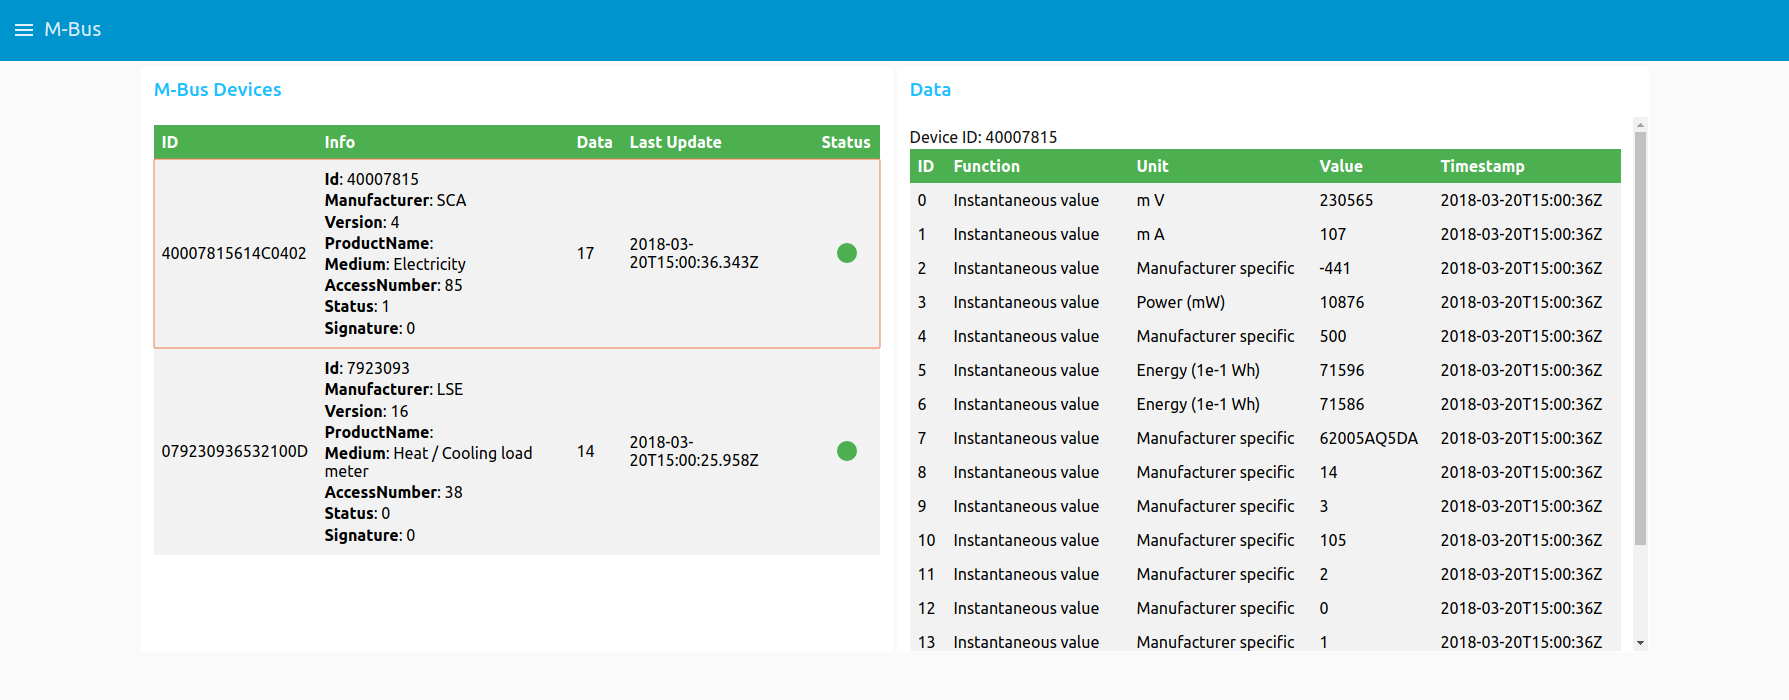
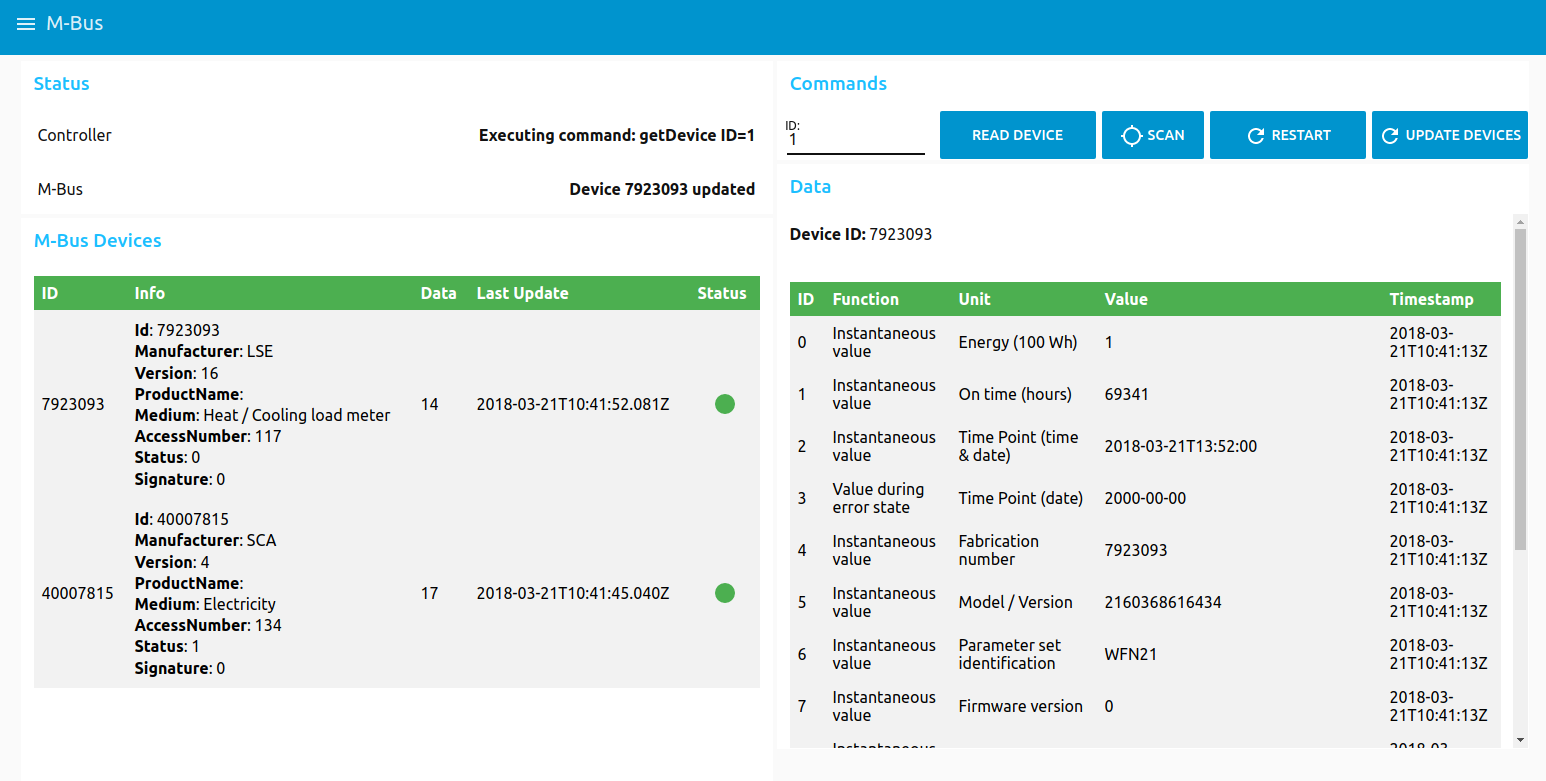
Updated readme and flow. Ready for release 0.5.0

diff --git a/README.md b/README.md
@@ -13,8 +13,6 @@
 
 Node-Red node that uses [node-mbus](https://github.com/Apollon77/node-mbus) to communicate with mbus devices via serial or TCP connections.
 
-#### \*\*THIS PACKAGE IS STILL UNDER DEVELOPMENT\*\*
-
 # Install
 
 Run the following command in the root directory of your Node-RED install
@@ -173,8 +171,12 @@ Click on a m-bus device row and his data will be displayed in the Data table. De
 ### Flow data
 
 ```json
-[{"id":"91f58b94.449f68","type":"tab","label":"M-Bus","disabled":false,"info":""},{"id":"dd877b81.954e48","type":"mbus-out","z":"91f58b94.449f68","name":"","client":"ae5a755.a1da088","x":385,"y":163,"wires":[["3baf7067.f14cb"]]},{"id":"3baf7067.f14cb","type":"debug","z":"91f58b94.449f68","name":"","active":true,"tosidebar":true,"console":false,"tostatus":false,"complete":"false","x":677,"y":163,"wires":[]},{"id":"c052251a.5894f8","type":"mbus-controller","z":"91f58b94.449f68","name":"","client":"ae5a755.a1da088","x":423,"y":253,"wires":[["b83f6e57.3e9b3","4628e1e6.86c15"]]},{"id":"6783da7a.66a964","type":"inject","z":"91f58b94.449f68","name":"scan","topic":"scan","payload":"","payloadType":"str","repeat":"","crontab":"","once":false,"onceDelay":0.1,"x":136,"y":206,"wires":[["c052251a.5894f8"]]},{"id":"b83f6e57.3e9b3","type":"debug","z":"91f58b94.449f68","name":"","active":true,"tosidebar":true,"console":false,"tostatus":false,"complete":"false","x":694,"y":254,"wires":[]},{"id":"36145d27.8fa442","type":"inject","z":"91f58b94.449f68","name":"Read ID 1","topic":"getDevice","payload":"{\"address\": 1}","payloadType":"json","repeat":"","crontab":"","once":false,"onceDelay":0.1,"x":145,"y":252,"wires":[["c052251a.5894f8"]]},{"id":"161119a5.ed03b6","type":"inject","z":"91f58b94.449f68","name":"Get Devices","topic":"getDevices","payload":"","payloadType":"str","repeat":"60","crontab":"","once":true,"onceDelay":0.1,"x":164,"y":295,"wires":[["c052251a.5894f8"]]},{"id":"4628e1e6.86c15","type":"ui_template","z":"91f58b94.449f68","group":"33ef59b3.4b5596","name":"mbus-table","order":0,"width":"14","height":"10","format":"<table>\n  <tr>\n    <th>ID</th>\n    <th>Info</th>\n    <th>Data</th>\n    <th>Last Update</th>\n    <th>Status</th>\n  </tr>\n  <tr style=\"cursor:pointer;\" ng-click=\"showData(device)\" ng-repeat=\"(ID, device) in devices\">\n    <td>{{ ID }}</td>\n    <td ng-bind-html=\"getInfo(device)\"></td>\n    <td>{{ device.DataRecord.length }}</td>\n    <td>{{ device.lastUpdate }}</td>\n    <td><div class=\"online\" ng-style=\"{background: isOnline(ID) ? '#4CAF50' : '#f44336'}\"></div></td>\n  </tr>\n</table>\n\n<style>\ntable {\n    border-collapse: collapse;\n    width: 100%;\n}\n\nth, td{\n    text-align: left;\n    padding: 8px;\n    background-color: #f2f2f2;\n    color: black;\n}\n\nth {\n    background-color: #4CAF50;\n    color: white;\n}\n\n.online {\n\tbackground:#ff3333;\n\twidth:20px;\n\theight:20px;\n\tmargin:0 auto;\n\t-webkit-border-radius:50%;\n\t-moz-border-radius:50%;\n\tborder-radius:50%;\n}\n</style>\n\n<script>\n\n\n(function(scope) {\n    \n    scope.send({topic: 'getDevices'});\n    scope.devices = [];\n    scope.errors = [];\n    \n    scope.isOnline = function(ID){\n        return !(scope.errors[ID] === true);\n    }\n    \n    scope.showData = function(device){\n        scope.send({topic: 'deviceData', payload: device});\n    }\n    \n    scope.getInfo = function(device){\n        var text = '';\n        var info = device.SlaveInformation;\n        \n        for(key in info){\n            text += `<p><b>${key}</b>: ${info[key]}</p>`;\n        }\n        \n        return text;\n    }\n\n    scope.$watch('msg', function(data) {\n        if(data && data.topic){\n            switch(data.topic){\n                case \"getDevices\":\n                    if(data.payload && data.payload.devices)\n                        scope.devices = data.payload.devices;\n                        \n                    if(data.payload && data.payload.errors)\n                        scope.errors = data.payload.errors;\n                        \n                break;\n            }\n        }\n    });\n    \n})(scope);\n\n</script>\n","storeOutMessages":false,"fwdInMessages":false,"templateScope":"local","x":752,"y":324,"wires":[["daf4f19d.2953f"]]},{"id":"1bbe4b3c.e76775","type":"inject","z":"91f58b94.449f68","name":"restart","topic":"restart","payload":"","payloadType":"num","repeat":"","crontab":"","once":false,"onceDelay":0.1,"x":133,"y":338,"wires":[["c052251a.5894f8"]]},{"id":"daf4f19d.2953f","type":"ui_template","z":"91f58b94.449f68","group":"f84bb8e1.c42128","name":"data-table","order":0,"width":"14","height":"10","format":"<p>Device ID: {{ID}} </p>\n\n<table>\n  <tr>\n    <th>ID</th>\n    <th>Function</th>\n    <th>Unit</th>\n    <th>Value</th>\n    <th>Timestamp</th>\n  </tr>\n  <tr ng-repeat=\"(key, data) in deviceData\">\n    <td>{{ data.id }}</td>\n    <td>{{ data.Function }}</td>\n    <td>{{ data.Unit }}</td>\n    <td>{{ data.Value }}</td>\n    <td>{{ data.Timestamp }}</td>\n  </tr>\n</table>\n\n<style>\ntable {\n    border-collapse: collapse;\n    width: 100%;\n}\n\nth, td{\n    text-align: left;\n    padding: 8px;\n    background-color: #f2f2f2;\n    color: black;\n}\n\nth {\n    background-color: #4CAF50;\n    color: white;\n}\n\n.online {\n\tbackground:#ff3333;\n\twidth:20px;\n\theight:20px;\n\tmargin:0 auto;\n\t-webkit-border-radius:50%;\n\t-moz-border-radius:50%;\n\tborder-radius:50%;\n}\n</style>\n\n<script>\n\n\n(function(scope) {\n    \n    scope.deviceData = [];\n    scope.ID = '';\n\n    scope.$watch('msg', function(data) {\n        if(data && data.topic){\n            switch(data.topic){\n                case \"deviceData\":\n                    if(data.payload){\n                        scope.deviceData = data.payload.DataRecord;\n                        scope.ID = data.payload.SlaveInformation.Id;\n                    }\n                break;\n            }\n        }\n    });\n    \n})(scope);\n\n</script>\n","storeOutMessages":false,"fwdInMessages":false,"templateScope":"local","x":981,"y":324,"wires":[[]]},{"id":"54eb2609.265918","type":"inject","z":"91f58b94.449f68","name":"Read ID 2","topic":"getDevice","payload":"{\"address\": 2}","payloadType":"json","repeat":"","crontab":"","once":false,"onceDelay":0.1,"x":134,"y":400,"wires":[["c052251a.5894f8"]]},{"id":"ae5a755.a1da088","type":"mbus-client","z":"","name":"test","clienttype":"serial","tcpHost":"127.0.0.1","tcpPort":"500","serialPort":"/dev/ttyUSB0","serialBaudrate":"2400","reconnectTimeout":"5000","storeDevices":true,"disableLogs":false},{"id":"33ef59b3.4b5596","type":"ui_group","z":"","name":"M-Bus Devices","tab":"1e8e0541.4fc61b","order":4,"disp":true,"width":"14","collapse":false},{"id":"f84bb8e1.c42128","type":"ui_group","z":"","name":"Data","tab":"1e8e0541.4fc61b","disp":true,"width":"14","collapse":false},{"id":"1e8e0541.4fc61b","type":"ui_tab","z":"","name":"M-Bus","icon":"plug","order":1}]
+[{"id":"91f58b94.449f68","type":"tab","label":"M-Bus","disabled":false,"info":""},{"id":"dd877b81.954e48","type":"mbus-out","z":"91f58b94.449f68","name":"","client":"ae5a755.a1da088","x":386,"y":242,"wires":[["3baf7067.f14cb"]]},{"id":"3baf7067.f14cb","type":"debug","z":"91f58b94.449f68","name":"","active":true,"tosidebar":true,"console":false,"tostatus":false,"complete":"false","x":678,"y":242,"wires":[]},{"id":"c052251a.5894f8","type":"mbus-controller","z":"91f58b94.449f68","name":"","client":"ae5a755.a1da088","x":426,"y":303,"wires":[["b83f6e57.3e9b3","4628e1e6.86c15"]]},{"id":"6783da7a.66a964","type":"inject","z":"91f58b94.449f68","name":"scan","topic":"scan","payload":"","payloadType":"str","repeat":"","crontab":"","once":false,"onceDelay":0.1,"x":122,"y":72,"wires":[["c052251a.5894f8"]]},{"id":"b83f6e57.3e9b3","type":"debug","z":"91f58b94.449f68","name":"","active":true,"tosidebar":true,"console":false,"tostatus":false,"complete":"false","x":621,"y":349,"wires":[]},{"id":"36145d27.8fa442","type":"inject","z":"91f58b94.449f68","name":"Read ID 1","topic":"getDevice","payload":"{\"address\": 1}","payloadType":"json","repeat":"","crontab":"","once":false,"onceDelay":0.1,"x":129,"y":146,"wires":[["c052251a.5894f8"]]},{"id":"161119a5.ed03b6","type":"inject","z":"91f58b94.449f68","name":"Get Devices","topic":"getDevices","payload":"","payloadType":"str","repeat":"10","crontab":"","once":true,"onceDelay":0.1,"x":145,"y":220,"wires":[["c052251a.5894f8"]]},{"id":"4628e1e6.86c15","type":"ui_template","z":"91f58b94.449f68","group":"33ef59b3.4b5596","name":"mbus-table","order":0,"width":"14","height":"10","format":"<table>\n  <tr>\n    <th>ID</th>\n    <th>Info</th>\n    <th>Data</th>\n    <th>Last Update</th>\n    <th>Status</th>\n  </tr>\n  <tr style=\"cursor:pointer;\" ng-click=\"showData(device)\" ng-repeat=\"(ID, device) in devices\">\n    <td>{{ ID }}</td>\n    <td ng-bind-html=\"getInfo(device)\"></td>\n    <td>{{ device.DataRecord.length }}</td>\n    <td>{{ device.lastUpdate }}</td>\n    <td><div class=\"online\" ng-style=\"{background: isOnline(ID) ? '#4CAF50' : '#f44336'}\"></div></td>\n  </tr>\n</table>\n\n<style>\ntable {\n    border-collapse: collapse;\n    width: 100%;\n}\n\nth, td{\n    text-align: left;\n    padding: 8px;\n    background-color: #f2f2f2;\n    color: black;\n}\n\nth {\n    background-color: #4CAF50;\n    color: white;\n}\n\n.online {\n\tbackground:#ff3333;\n\twidth:20px;\n\theight:20px;\n\tmargin:0 auto;\n\t-webkit-border-radius:50%;\n\t-moz-border-radius:50%;\n\tborder-radius:50%;\n}\n</style>\n\n<script>\n\n\n(function(scope) {\n    \n    scope.send({topic: 'getDevices'});\n    scope.devices = [];\n    scope.errors = [];\n    \n    scope.isOnline = function(ID){\n        return !(scope.errors[ID] === true);\n    }\n    \n    scope.showData = function(device){\n        scope.send({topic: 'deviceData', payload: device});\n    }\n    \n    scope.getInfo = function(device){\n        var text = '';\n        var info = device.SlaveInformation;\n        \n        for(key in info){\n            text += `<p><b>${key}</b>: ${info[key]}</p>`;\n        }\n        \n        return text;\n    }\n\n    scope.$watch('msg', function(data) {\n        if(data && data.topic){\n            switch(data.topic){\n                case \"getDevices\":\n                    if(data.payload && data.payload.devices)\n                        scope.devices = data.payload.devices;\n                        \n                    if(data.payload && data.payload.errors)\n                        scope.errors = data.payload.errors;\n                        \n                break;\n            }\n        }\n    });\n    \n})(scope);\n\n</script>\n","storeOutMessages":false,"fwdInMessages":false,"templateScope":"local","x":623,"y":303,"wires":[["daf4f19d.2953f"]]},{"id":"1bbe4b3c.e76775","type":"inject","z":"91f58b94.449f68","name":"restart","topic":"restart","payload":"","payloadType":"num","repeat":"","crontab":"","once":false,"onceDelay":0.1,"x":119,"y":108,"wires":[["c052251a.5894f8"]]},{"id":"daf4f19d.2953f","type":"ui_template","z":"91f58b94.449f68","group":"f84bb8e1.c42128","name":"data-table","order":0,"width":"14","height":"10","format":"<p><b>Device ID:</b> {{ID}} </p>\n\n<br>\n<br>\n\n<table>\n  <tr>\n    <th>ID</th>\n    <th>Function</th>\n    <th>Unit</th>\n    <th>Value</th>\n    <th>Timestamp</th>\n  </tr>\n  <tr ng-repeat=\"(key, data) in deviceData\">\n    <td>{{ data.id }}</td>\n    <td>{{ data.Function }}</td>\n    <td>{{ data.Unit }}</td>\n    <td>{{ data.Value }}</td>\n    <td>{{ data.Timestamp }}</td>\n  </tr>\n</table>\n\n<style>\ntable {\n    border-collapse: collapse;\n    width: 100%;\n}\n\nth, td{\n    text-align: left;\n    padding: 8px;\n    background-color: #f2f2f2;\n    color: black;\n}\n\nth {\n    background-color: #4CAF50;\n    color: white;\n}\n\n.online {\n\tbackground:#ff3333;\n\twidth:20px;\n\theight:20px;\n\tmargin:0 auto;\n\t-webkit-border-radius:50%;\n\t-moz-border-radius:50%;\n\tborder-radius:50%;\n}\n</style>\n\n<script>\n\n\n(function(scope) {\n    \n    scope.deviceData = [];\n    scope.ID = '';\n\n    scope.$watch('msg', function(data) {\n        if(data && data.topic){\n            switch(data.topic){\n                case \"deviceData\":\n                    if(data.payload){\n                        scope.deviceData = data.payload.DataRecord;\n                        scope.ID = data.payload.SlaveInformation.Id;\n                    }\n                break;\n            }\n        }\n    });\n    \n})(scope);\n\n</script>\n","storeOutMessages":false,"fwdInMessages":false,"templateScope":"local","x":786,"y":303,"wires":[[]]},{"id":"54eb2609.265918","type":"inject","z":"91f58b94.449f68","name":"Read ID 2","topic":"getDevice","payload":"{\"address\": 2}","payloadType":"json","repeat":"","crontab":"","once":false,"onceDelay":0.1,"x":130,"y":184,"wires":[["c052251a.5894f8"]]},{"id":"9a73efcf.a7232","type":"ui_button","z":"91f58b94.449f68","name":"Scan","group":"c89330ce.f7db","order":3,"width":"2","height":"1","passthru":false,"label":"Scan","color":"","bgcolor":"","icon":"location_searching","payload":"","payloadType":"str","topic":"scan","x":91,"y":421,"wires":[["c052251a.5894f8"]]},{"id":"97ffd355.b9e33","type":"ui_button","z":"91f58b94.449f68","name":"Restart","group":"c89330ce.f7db","order":4,"width":"3","height":"1","passthru":false,"label":"Restart","color":"","bgcolor":"","icon":"refresh","payload":"","payloadType":"str","topic":"restart","x":101,"y":458,"wires":[["c052251a.5894f8"]]},{"id":"15e49644.8e13ba","type":"ui_button","z":"91f58b94.449f68","name":"GetDevices","group":"c89330ce.f7db","order":5,"width":"3","height":"1","passthru":false,"label":"Update Devices","color":"","bgcolor":"","icon":"refresh","payload":"","payloadType":"str","topic":"getDevices","x":109,"y":495,"wires":[["c052251a.5894f8"]]},{"id":"d022c2f6.908e5","type":"ui_button","z":"91f58b94.449f68","name":"readAddress","group":"c89330ce.f7db","order":2,"width":"3","height":"1","passthru":false,"label":"Read Device","color":"","bgcolor":"","icon":"","payload":"deviceID","payloadType":"flow","topic":"getDevice","x":112,"y":384,"wires":[["10d02659.573e3a"]]},{"id":"c4931876.835258","type":"ui_text_input","z":"91f58b94.449f68","name":"Device_ID","label":"ID: ","group":"c89330ce.f7db","order":1,"width":"3","height":"1","passthru":true,"mode":"text","delay":300,"topic":"","x":112,"y":346,"wires":[["548897df.015fb8"]]},{"id":"548897df.015fb8","type":"function","z":"91f58b94.449f68","name":"storeID","func":"\nflow.set('deviceID', parseInt(msg.payload));\n\nreturn msg;","outputs":0,"noerr":0,"x":142,"y":265,"wires":[]},{"id":"10d02659.573e3a","type":"function","z":"91f58b94.449f68","name":"readAddr","func":"var addr = {address: msg.payload}\n\nmsg.payload = addr;\n\nreturn msg;","outputs":1,"noerr":0,"x":142,"y":304,"wires":[["c052251a.5894f8"]]},{"id":"ae06bcd6.ce3df","type":"status","z":"91f58b94.449f68","name":"controller_status","scope":["c052251a.5894f8"],"x":411,"y":97,"wires":[["1b23d795.c83a58"]]},{"id":"eb9c6a53.906ae8","type":"status","z":"91f58b94.449f68","name":"mbus_status","scope":["dd877b81.954e48"],"x":404,"y":142,"wires":[["ebc6bd18.72c2e"]]},{"id":"1b23d795.c83a58","type":"ui_text","z":"91f58b94.449f68","group":"b6df82c1.2728a","order":0,"width":0,"height":0,"name":"controller_status","label":"Controller","format":"{{msg.status.text}}","layout":"row-spread","x":623,"y":97,"wires":[]},{"id":"ebc6bd18.72c2e","type":"ui_text","z":"91f58b94.449f68","group":"b6df82c1.2728a","order":0,"width":0,"height":0,"name":"mbus_status","label":"M-Bus","format":"{{msg.status.text}}","layout":"row-spread","x":613,"y":142,"wires":[]},{"id":"ae5a755.a1da088","type":"mbus-client","z":"","name":"test","clienttype":"serial","tcpHost":"127.0.0.1","tcpPort":"500","serialPort":"/dev/ttyUSB0","serialBaudrate":"2400","reconnectTimeout":"5000","storeDevices":true,"disableLogs":false},{"id":"33ef59b3.4b5596","type":"ui_group","z":"","name":"M-Bus Devices","tab":"1e8e0541.4fc61b","order":4,"disp":true,"width":"14","collapse":false},{"id":"f84bb8e1.c42128","type":"ui_group","z":"","name":"Data","tab":"1e8e0541.4fc61b","order":3,"disp":true,"width":"14","collapse":false},{"id":"c89330ce.f7db","type":"ui_group","z":"","name":"Commands","tab":"1e8e0541.4fc61b","order":2,"disp":true,"width":"14","collapse":false},{"id":"b6df82c1.2728a","type":"ui_group","z":"","name":"Status","tab":"1e8e0541.4fc61b","order":1,"disp":true,"width":"14","collapse":false},{"id":"1e8e0541.4fc61b","type":"ui_tab","z":"","name":"M-Bus","icon":"plug","order":1}]
 ```
+
+# Known bugs
+
+At the moment there is no way to stop running operations like scan or get device data. Client will not be closed until this operations are running. This can make the redeploy process longer than expected and even throw some error if usb is disconnected while operations are running.
 
 # Authors
 
